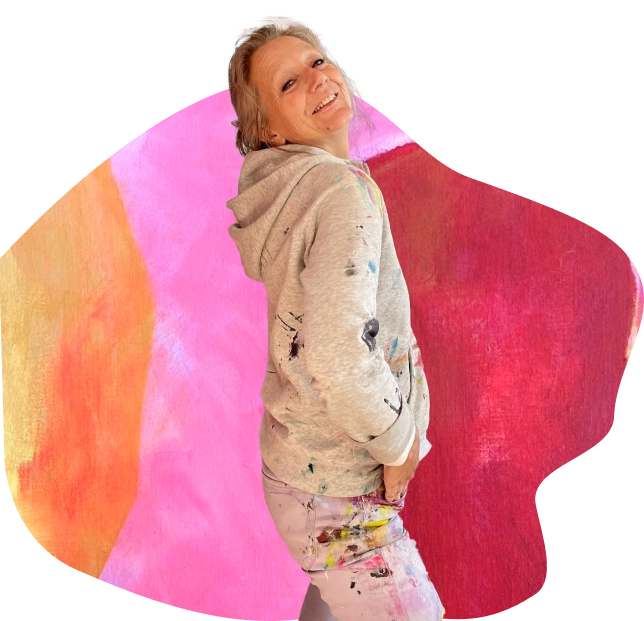
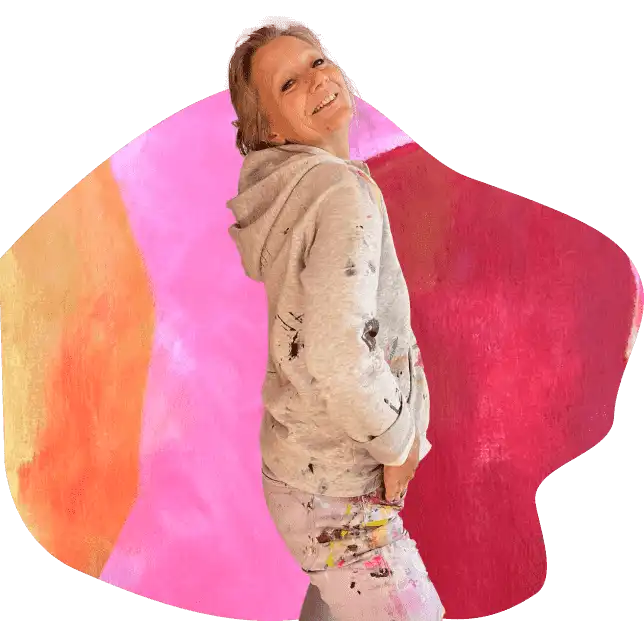
Minor changes

diff --git a/src/styles/kontakt.css b/src/styles/kontakt.css
@@ -33,7 +33,7 @@ h1 {
 }
 
 .illustration img {
-  max-width: 600px;
+  max-width: 480px;
   object-fit: cover;
 }
 
@@ -104,7 +104,7 @@ h1 {
   }
 
   .illustration img {
-    max-width: 90%;
+    max-width: 480px;
     height: auto;
   }
 
@@ -207,7 +207,7 @@ h1 {
   }
 
   .showcase img {
-    max-width: 600px; /* Increase the max-width to make the image larger */
+    max-width: 410px; /* Increase the max-width to make the image larger */
     height: auto;
     filter: brightness(40%) contrast(100%) grayscale(60%) opacity(0.3);
   }
@@ -216,7 +216,7 @@ h1 {
     text-align: center; /* Center align the text */
     max-width: 300%; /* Ensure it doesn't exceed the viewport width */
     width: calc(100% - 50px); /* Subtract padding to maintain alignment */
-    top: 39.5%;
+    top: 45%;
     left: 48%;
   }
 
